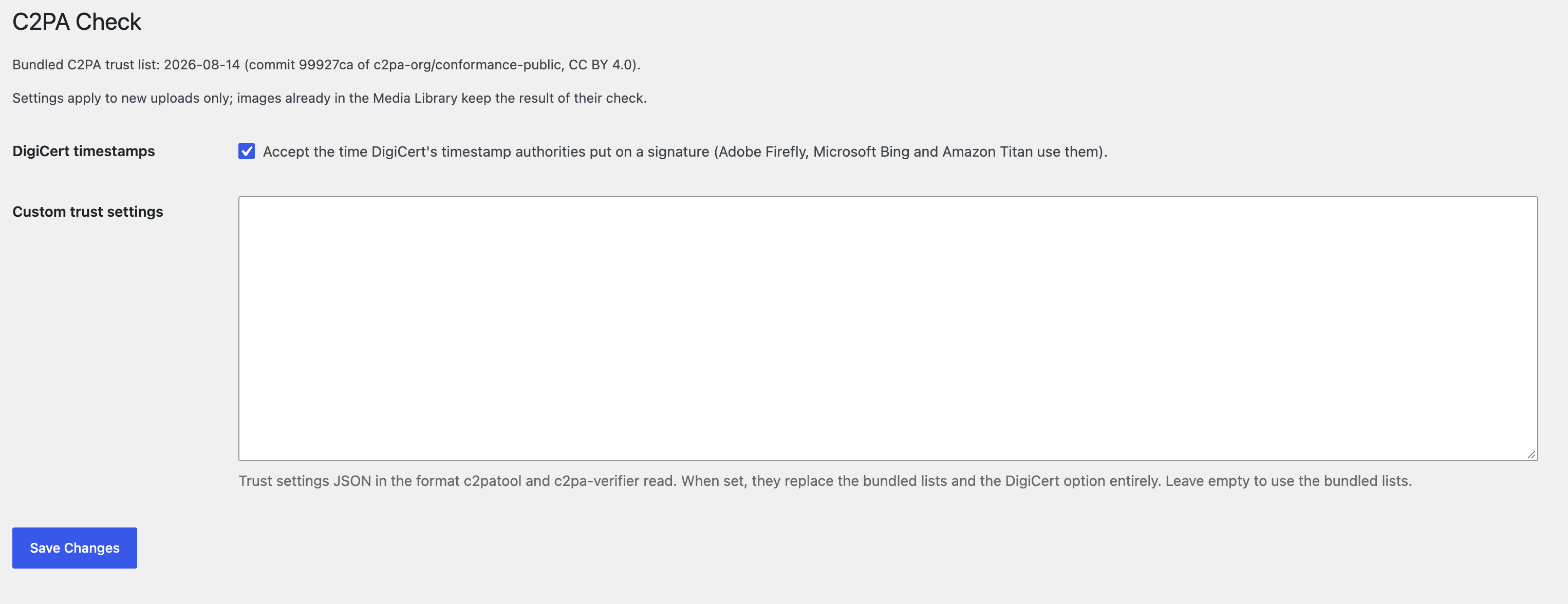
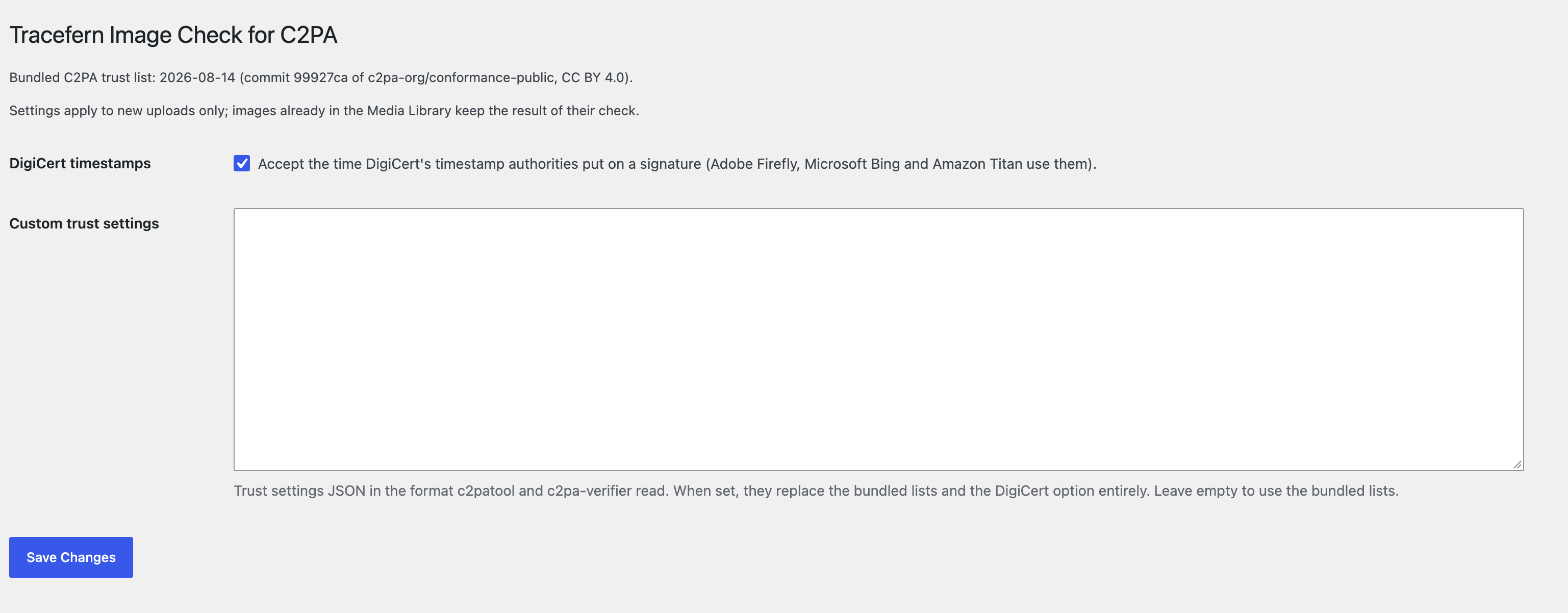
Take the settings screenshot again with the new heading (SPEC-023)

diff --git a/AI-LOG.md b/AI-LOG.md
@@ -2027,6 +2027,8 @@ README are where the disclosure lives.
   `mauricevanloon/tracefern-image-check`; the release test expects the new
   heading.
 - Measured after: `composer check` 66, integration 152 (SPEC-021 and
-  SPEC-022 included), multisite 7; the release suite and screenshot 3
-  after the commit.
+  SPEC-022 included), multisite 7; the release suite after the commit, 11 passed (Plugin Check clean),
+  with the old `provemark-c2pa-check` removed from the release environment,
+  where it was still active; screenshot 3 taken again in Chrome (menu
+  "Tracefern", the new heading; looked at, no cursor).
 - Decided by Maurice: SPEC-022, SPEC-023 and the Composer name. Not pushed.
